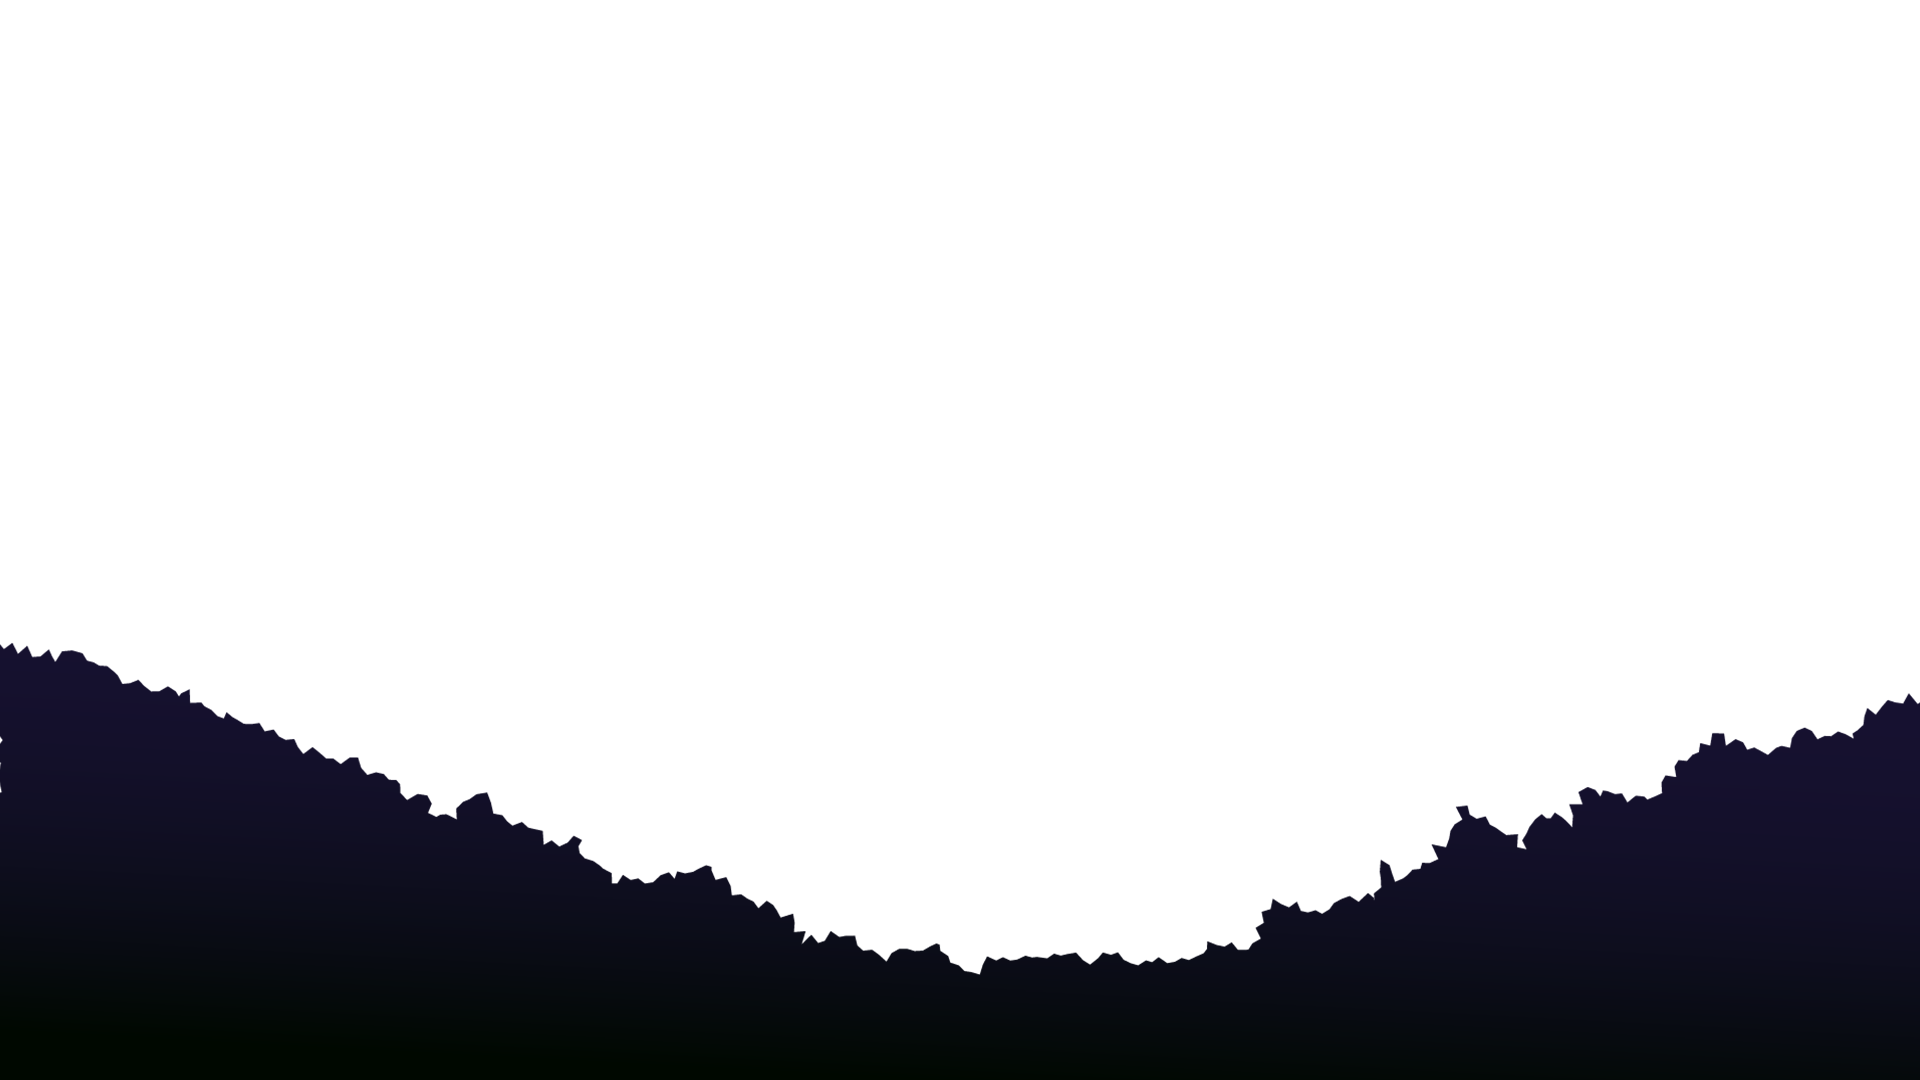
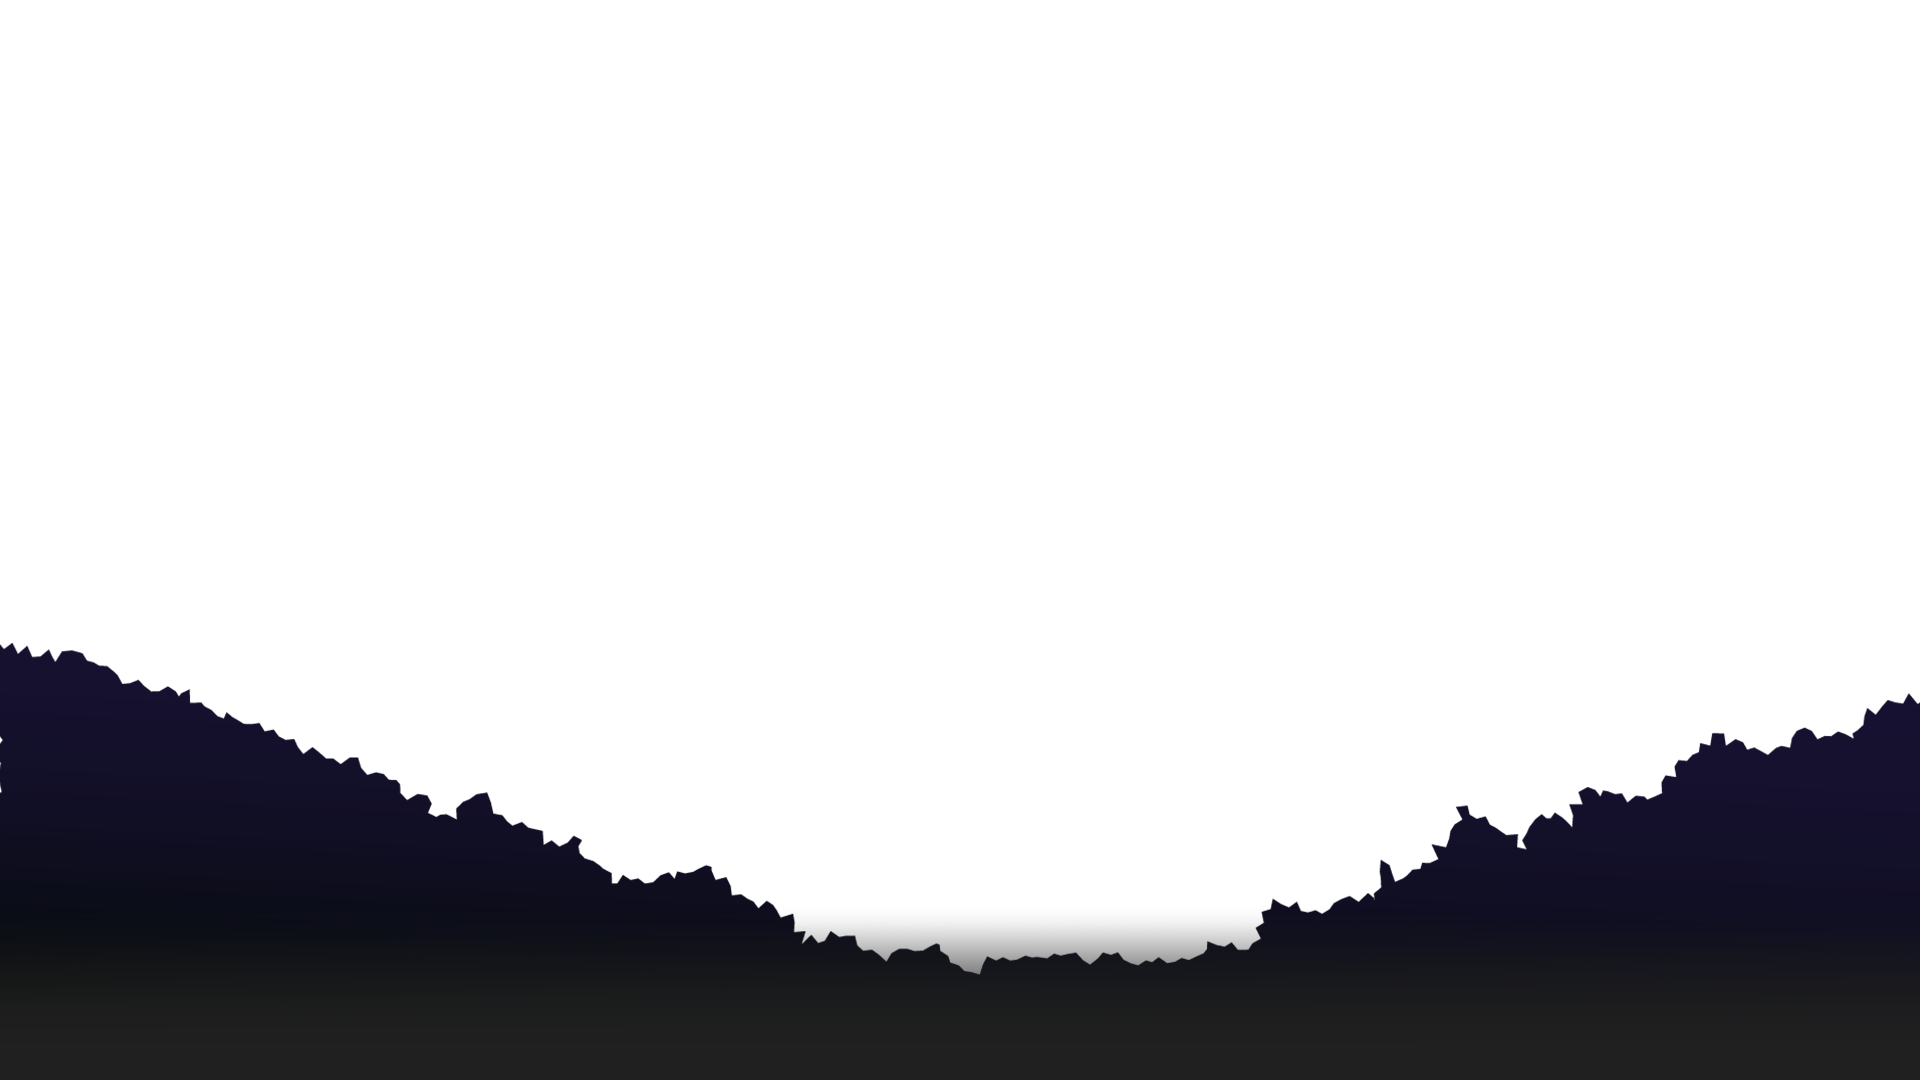
gradient fixes

Changed region(s): [[0.0, 0.9167, 1.0, 1.0], [0.4062, 0.8556, 0.6562, 0.9167]]

diff --git a/style.css b/style.css
@@ -9,7 +9,10 @@
 body{
     min-height: 100vh;
     background: linear-gradient(#E28A64,#EFC996);
+    background-size:contain;
+    background-position: center;
     overflow-x: hidden;
+    overflow-y: scroll;
 }
 
 
@@ -77,7 +80,7 @@ section img{
     object-fit: cover;
     pointer-events: none;
 }
-section #gradient{
+ section #gradient{
     position: absolute;
     height: 100px;
     width: 100%;
@@ -85,7 +88,7 @@ section #gradient{
     bottom: 100%;
     background: linear-gradient(to top, #161616,transparent);
     z-index: 21;
-}
+} 
 section img#tFront{
     z-index:12;
     top: 20px;
@@ -107,7 +110,7 @@ section img#ground{
 .sec{
     position: relative;
     padding: 100px;
-    background:#161616;
+    background-color:#161616;
     z-index: 20;
 }
 .sec h2{
@@ -121,11 +124,20 @@ section img#ground{
 }
 
 .sec #darkback{
-    position: absolute; 
     height: 80%;
     left: 0;
     top: 510px;
     width: 100%;
+    height: 100px;
     background: #161616;
     z-index:0;
+}
+
+img#picture{
+    display: block;
+    position: relative;
+    height: 5%;
+    margin-left: auto;
+    margin-right: auto;
+    width: 5%;
 }

diff --git a/index.html b/index.html
@@ -25,12 +25,12 @@
             <img src="img/treesBack.png" id="tBack" alt="">
             <img src="img/treesFront.png" id="tFront" alt="">
             <img src="img/ground.png" id = "ground" alt="">
-            <div class = "gradient" id="gradient"></div>
+            <div id="gradient"></div>
         </section>
-
+        
         <div class ="sec" id="sec">
            
-            <div id = "darkback"></div>
+            
             <h2 id ="abt">About</h2>
             <p>Lorem ipsum dolor sit amet consectetur, adipisicing elit. 
                 Assumenda quo quia quos quaerat quasi possimus? Qui esse
@@ -45,8 +45,10 @@
                 Assumenda quo quia quos quaerat quasi possimus? Qui esse
                 sint impedit numquam adipisci in, soluta vel, eos fugit
                 cum, maxime sit ipsum!</p>
-                
-        </div>
+                <img src="img/picture.jpg" id="picture">
+                <div id = "darkback"></div> 
+            </div>
+            
         <script src="app.js"></script>
     </body>
 </html>

diff --git a/app.js b/app.js
@@ -7,18 +7,15 @@ let tfront = document.getElementById('tFront');
 let bottomPart = document.getElementById('sec');
 let ground = document.getElementById('ground');
 let gradient = document.getElementById('gradient');
-let backPart = document.getElementById('darkback');
 let aboutbutton = document.getElementById('about');
 let homebutton = document.getElementById('home');
 let contactsbutton = document.getElementById('contacts');
-
 
 window.addEventListener('scroll', function(){
     let value = window.scrollY;
     ground.style.top = value*-0.9+'px';
     gradient.style.top =790+(value*-0.9)+'px';
     bottomPart.style.top = value*-0.9+'px';
-    backPart.style.height = value+'px';
     mfront.style.top = value*-0.2+'px';
     tback.style.top = value*-0.3+'px';
     tfront.style.top = 20+(value*-0.4)+'px';
